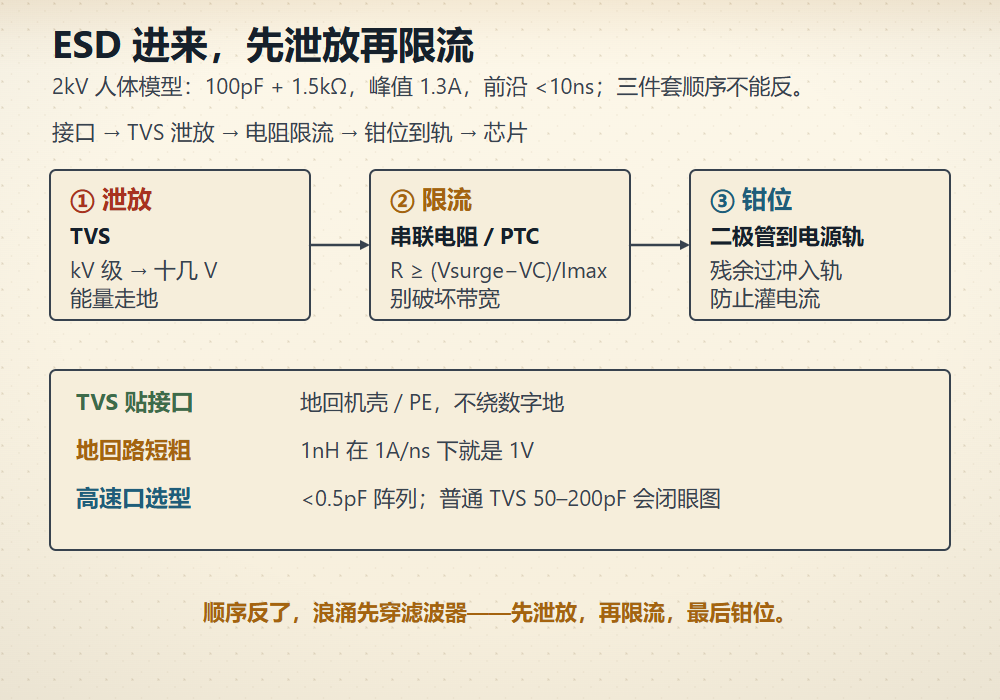
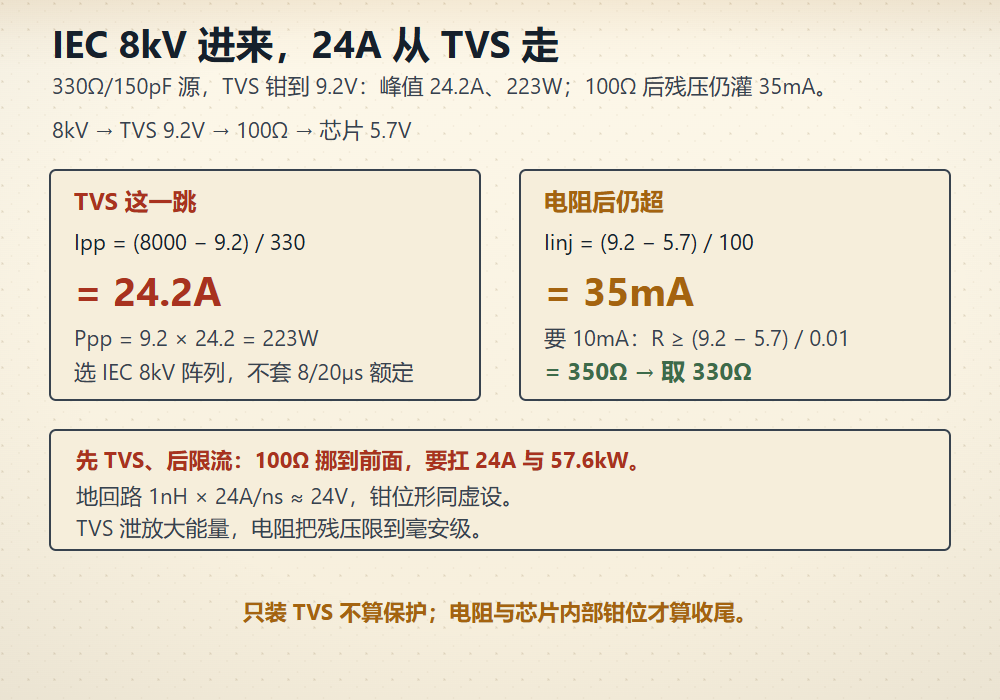
visual: retarget ESD figure and fix review feedback

diff --git a/docs/superpowers/visual/reviews/task8-2026-11-05/contact-wave10.html b/docs/superpowers/visual/reviews/task8-2026-11-05/contact-wave10.html
@@ -13,8 +13,8 @@ td,th{border:1px solid #e0d3b8;padding:2px 6px;text-align:center}
 .gray{filter:grayscale(1)}.page{break-after:page;margin-bottom:36px}
 .pending{padding:32px;border:1px dashed #5b666f}.proof{color:#a4441d;font-weight:bold}
 </style><h1>视觉接触表 · 全部新图（9 张）</h1><p class='lead'>逐项打 1–5 分；任一维度 &lt;4 返工。评分回填 visual-manifest.yml 的 review_scores。</p><section class='page'><div class='grid'><figure>
-<img src="../../../../../assets/figures-v2/ch02-esd-chain.svg" alt="接口保护三件套的顺序">
-<figcaption><b>ch02-esd-chain</b> · 接口保护三件套的顺序
+<img src="../../../../../assets/figures-v2/ch02-esd-chain.svg" alt="IEC 8kV 的 24A 分账">
+<figcaption><b>ch02-esd-chain</b> · IEC 8kV 的 24A 分账
 <div class="meta">ch2 · V4 · IG-013
  · generated</div>
 <table><tr><th>教学必要性</th><th>事实精度</th><th>构图层级</th><th>风格一致性</th><th>印刷可读性</th></tr><tr><td>待评</td><td>待评</td><td>待评</td><td>待评</td><td>待评</td></tr></table></figcaption>

diff --git a/scripts/visuals/scenes/handdrawn_wave10.py b/scripts/visuals/scenes/handdrawn_wave10.py
@@ -7,36 +7,28 @@ from scripts.visuals.scenes.handdrawn_wave2 import (
 
 
 def esd_chain():
-    parts = [header('ESD 进来，先泄放再限流',
-                    '2kV 人体模型：100pF + 1.5kΩ，峰值 1.3A，前沿 <10ns；三件套顺序不能反。')]
-    parts.append(text(52, 140, '接口 → TVS 泄放 → 电阻限流 → 钳位到轨 → 芯片', 22,
+    parts = [header('IEC 8kV 进来，24A 从 TVS 走',
+                    '330Ω/150pF 源，TVS 钳到 9.2V：峰值 24.2A、223W；100Ω 后残压仍灌 35mA。')]
+    parts.append(text(52, 138, '8kV → TVS 9.2V → 100Ω → 芯片 5.7V', 22, colour=INK2))
+    parts.append(box(50, 170, 430, 230, fill=PAPER))
+    parts.append(text(74, 210, 'TVS 这一跳', 24, colour=RED, weight='700'))
+    parts.append(text(74, 250, 'Ipp = (8000 − 9.2) / 330', 22))
+    parts.append(text(74, 306, '= 24.2A', 40, colour=RED, weight='700'))
+    parts.append(text(74, 346, 'Ppp = 9.2 × 24.2 = 223W', 22, colour=INK2))
+    parts.append(text(74, 380, '选 IEC 8kV 阵列，不套 8/20µs 额定', 22, colour=INK2))
+    parts.append(box(520, 170, 430, 230, fill=PAPER))
+    parts.append(text(544, 210, '电阻后仍超', 24, colour=AMBER, weight='700'))
+    parts.append(text(544, 250, 'Iinj = (9.2 − 5.7) / 100', 22))
+    parts.append(text(544, 306, '= 35mA', 40, colour=AMBER, weight='700'))
+    parts.append(text(544, 346, '要 10mA：R ≥ (9.2 − 5.7) / 0.01', 22, colour=INK2))
+    parts.append(text(544, 380, '= 350Ω → 取 330Ω', 24, colour=GREEN, weight='700'))
+    parts.append(box(50, 430, 900, 120, fill=PAPER))
+    parts.append(text(76, 468, '先 TVS、后限流：100Ω 挪到前面，要扛 24A 与 57.6kW。', 22,
+                      colour=RED, weight='700'))
+    parts.append(text(76, 504, '地回路 1nH × 24A/ns ≈ 24V，钳位形同虚设。', 22,
                       colour=INK2))
-    cards = [
-        (50, '① 泄放', 'TVS', 'kV 级 → 十几 V', '能量走地', RED),
-        (370, '② 限流', '串联电阻 / PTC', 'R ≥ (Vsurge−VC)/Imax', '别破坏带宽', AMBER),
-        (690, '③ 钳位', '二极管到电源轨', '残余过冲入轨', '防止灌电流', BLUE),
-    ]
-    for x, head, line1, line2, line3, colour in cards:
-        parts.append(box(x, 170, 260, 150, fill=PAPER))
-        parts.append(text(x + 20, 208, head, 25, colour=colour, weight='700'))
-        parts.append(text(x + 20, 244, line1, 22, weight='700'))
-        parts.append(text(x + 20, 278, line2, 22, colour=INK2))
-        parts.append(text(x + 20, 306, line3, 22, colour=INK2))
-    parts.append(f'<line x1="310" y1="245" x2="360" y2="245" stroke="{INK2}" stroke-width="2.5"/>')
-    parts.append(f'<polygon points="370,245 360,240 360,250" fill="{INK2}"/>')
-    parts.append(f'<line x1="630" y1="245" x2="680" y2="245" stroke="{INK2}" stroke-width="2.5"/>')
-    parts.append(f'<polygon points="690,245 680,240 680,250" fill="{INK2}"/>')
-    parts.append(box(50, 370, 900, 180, fill=PAPER))
-    rows = [
-        ('TVS 贴接口', '地回机壳 / PE，不绕数字地'),
-        ('地回路短粗', '1nH 在 1A/ns 下就是 1V'),
-        ('高速口选型', '<0.5pF 阵列；普通 TVS 50–200pF 会闭眼图'),
-    ]
-    for i, (head, note) in enumerate(rows):
-        y = 410 + i * 48
-        parts.append(text(76, y, head, 23, colour=[GREEN, AMBER, BLUE][i], weight='700'))
-        parts.append(text(300, y, note, 22, colour=INK2))
-    parts.append(text(500, 620, '顺序反了，浪涌先穿滤波器——先泄放，再限流，最后钳位。', 22,
+    parts.append(text(76, 536, 'TVS 泄放大能量，电阻把残压限到毫安级。', 22, colour=INK2))
+    parts.append(text(500, 620, '只装 TVS 不算保护；电阻与芯片内部钳位才算收尾。', 22,
                       colour=AMBER, anchor='middle', weight='700'))
     return parts
 
@@ -101,9 +93,9 @@ def junction_margin():
                           weight='700' if i == 3 else '400'))
     parts.append(text(594, 430, '降额、换低 VF 管、加散热片。', 22, colour=INK2))
     parts.append(box(50, 500, 900, 90, fill=PAPER))
-    parts.append(text(76, 538, 'SOA 四条边界：VRRM、IF、PD、Tjmax 要同时满足。', 22,
-                      weight='700'))
-    parts.append(text(76, 574, '8.3ms 单次浪涌不能当重复值；脉冲越窄，允许峰值越高。', 22,
+    parts.append(text(76, 538, '8.3ms 单次浪涌不能当重复值。', 22,
+                      colour=RED, weight='700'))
+    parts.append(text(76, 574, '峰值功率一定带脉宽与占空比；脉冲越窄，允许峰值越高。', 22,
                       colour=INK2))
     parts.append(text(500, 640, '结温是闭环，不是单点；余量没了就降额或换封装。', 22,
                       colour=AMBER, anchor='middle', weight='700'))
@@ -296,14 +288,14 @@ def early_effect():
     parts = [header('输出特性不是水平线，是微微上翘',
                     'VCE 升 → 集电结耗尽层变宽 → 有效基区变薄 → β 微升。')]
     parts.append(box(50, 140, 500, 380, fill=PAPER))
-    parts.append(f'<line x1="100" y1="460" x2="510" y2="460" stroke="{INK2}" stroke-width="2.5"/>')
+    parts.append(f'<line x1="60" y1="460" x2="510" y2="460" stroke="{INK2}" stroke-width="2.5"/>')
     parts.append(f'<line x1="100" y1="460" x2="100" y2="170" stroke="{INK2}" stroke-width="2.5"/>')
     parts.append(text(470, 490, 'VCE', 22, colour=INK2))
     parts.append(text(78, 182, 'IC', 22, colour=INK2))
     for i, (y0, colour) in enumerate([(380, BLUE), (310, GREEN), (240, AMBER)]):
         parts.append(f'<path d="M150,{y0} C280,{y0 - 4} 400,{y0 - 16} 500,{y0 - 28}" '
                      f'fill="none" stroke="{colour}" stroke-width="4"/>')
-        parts.append(f'<path d="M150,{y0} L60,430" fill="none" stroke="{colour}" '
+        parts.append(f'<path d="M150,{y0} L60,460" fill="none" stroke="{colour}" '
                      f'stroke-width="1.6" stroke-dasharray="5,5"/>')
     parts.append(text(56, 500, '虚线交于 −VA', 22, colour=INK2))
     parts.append(text(300, 205, '曲线间距 = β', 22, colour=INK2))
@@ -329,9 +321,9 @@ def early_effect():
 
 SCENES = {
     'ch02-esd-chain': {
-        'draw': esd_chain, 'title': '接口保护三件套的顺序', 'anchor': '2.8',
+        'draw': esd_chain, 'title': 'IEC 8kV 的 24A 分账', 'anchor': '2.11.3',
         'chapter': 2, 'source': 'docs/p1-03-ch2.md',
-        'alt': '手绘保护链：接口进来先到 TVS 泄放，再经串联电阻限流，最后用钳位二极管把残余过冲引到电源轨。上方写 2 千伏人体模型为 100 皮法加 1.5 千欧，峰值 1.3 安，前沿小于 10 纳秒。下方三条布局军规：TVS 贴接口、地回路短粗、高速口选小于 0.5 皮法阵列。',
+        'alt': '手绘 IEC 8 千伏 ESD 分账：330 欧、150 皮法源，TVS 钳到 9.2 伏，峰值电流 24.2 安、223 瓦；经 100 欧后残压仍向芯片灌 35 毫安。右侧写要压到 10 毫安需电阻至少 350 欧，取 330 欧。底部写先 TVS 后限流，100 欧挪到前面要扛 24 安与 57.6 千瓦；地回路 1 纳亨乘 24 安每纳秒约 24 伏，钳位形同虚设。',
     },
     'ch02-zener-budget': {
         'draw': zener_budget, 'title': '稳压管的限流电阻与最坏功耗', 'anchor': '2.9',
@@ -341,7 +333,7 @@ SCENES = {
     'ch02-junction-margin': {
         'draw': junction_margin, 'title': '结温余量只剩 3°C', 'anchor': '2.9',
         'chapter': 2, 'source': 'docs/p1-03-ch2.md',
-        'alt': '手绘结温账：1 安乘 0.9 伏乘 80 摄氏度每瓦，环境 50 摄氏度，结温 122 摄氏度；上限 125 摄氏度，只剩 3 摄氏度。右侧写环境再高 5 摄氏度或电流再大 10% 就超，降额到 0.6 安后结温约 93 摄氏度。底部写 SOA 四条边界与 8.3 毫秒单次浪涌不能当重复值。',
+        'alt': '手绘结温账：1 安乘 0.9 伏乘 80 摄氏度每瓦，环境 50 摄氏度，结温 122 摄氏度；上限 125 摄氏度，只剩 3 摄氏度。右侧写环境再高 5 摄氏度或电流再大 10% 就超，降额到 0.6 安后结温约 93 摄氏度。底部写 8.3 毫秒单次浪涌不能当重复值，峰值功率一定带脉宽与占空比。',
     },
     'ch02-parallel-hog': {
         'draw': parallel_hog, 'title': '并联二极管的热抢流', 'anchor': '2.9',

diff --git a/scripts/visuals/scenes/handdrawn_wave4.py b/scripts/visuals/scenes/handdrawn_wave4.py
@@ -149,7 +149,7 @@ SCENES = {
     'ch18-temp-spray': {
         'draw': temp_spray, 'title': '温度手段与安全边界', 'anchor': '18.1',
         'chapter': 18, 'source': 'docs/p4-03-ch18.md',
-        'alt': '手绘三步温度定位：手背感知只限低压或电池供电，冷却喷剂逐片降温看故障消失还是回来，锁定温敏件并记录边界；下方强调市电与高压电容附近只用喷剂和红外测温，绝不伸手。',
+        'alt': '手绘三步温度定位：手背感知只限低压或电池供电，冷却喷剂逐片降温看故障是否回来，锁定温敏件并记录边界；下方强调市电与高压电容附近只用喷剂和红外测温，绝不伸手。',
     },
     'ch16-instrument-trust': {
         'draw': instrument_trust, 'title': '仪器信任链', 'anchor': '16.3',

diff --git a/docs/superpowers/visual/reviews/task8-2026-11-05/WAVE10-GALLERY.md b/docs/superpowers/visual/reviews/task8-2026-11-05/WAVE10-GALLERY.md
@@ -5,10 +5,10 @@
 
 ## ch2（4 张）
 
-### 接口保护三件套的顺序
+### IEC 8kV 的 24A 分账
 `ch02-esd-chain` · V4 · `IG-013`
 
-<img src="../../../../../assets/figures-v2/ch02-esd-chain.webp" width="720" alt="手绘保护链：接口进来先到 TVS 泄放，再经串联电阻限流，最后用钳位二极管把残余过冲引到电源轨。上方写 2 千伏人体模型为 100 皮法加 1.5 千欧，峰值 1.3 安，前沿小于 10 纳秒。下方三条布局军规：TVS 贴接口、地回路短粗、高速口选小于 0.5 皮法阵列。">
+<img src="../../../../../assets/figures-v2/ch02-esd-chain.webp" width="720" alt="手绘 IEC 8 千伏 ESD 分账：330 欧、150 皮法源，TVS 钳到 9.2 伏，峰值电流 24.2 安、223 瓦；经 100 欧后残压仍向芯片灌 35 毫安。右侧写要压到 10 毫安需电阻至少 350 欧，取 330 欧。底部写先 TVS 后限流，100 欧挪到前面要扛 24 安与 57.6 千瓦；地回路 1 纳亨乘 24 安每纳秒约 24 伏，钳位形同虚设。">
 
 ### 稳压管的限流电阻与最坏功耗
 `ch02-zener-budget` · V4 · `IG-013`
@@ -18,7 +18,7 @@
 ### 结温余量只剩 3°C
 `ch02-junction-margin` · V4 · `IG-013`
 
-<img src="../../../../../assets/figures-v2/ch02-junction-margin.webp" width="720" alt="手绘结温账：1 安乘 0.9 伏乘 80 摄氏度每瓦，环境 50 摄氏度，结温 122 摄氏度；上限 125 摄氏度，只剩 3 摄氏度。右侧写环境再高 5 摄氏度或电流再大 10% 就超，降额到 0.6 安后结温约 93 摄氏度。底部写 SOA 四条边界与 8.3 毫秒单次浪涌不能当重复值。">
+<img src="../../../../../assets/figures-v2/ch02-junction-margin.webp" width="720" alt="手绘结温账：1 安乘 0.9 伏乘 80 摄氏度每瓦，环境 50 摄氏度，结温 122 摄氏度；上限 125 摄氏度，只剩 3 摄氏度。右侧写环境再高 5 摄氏度或电流再大 10% 就超，降额到 0.6 安后结温约 93 摄氏度。底部写 8.3 毫秒单次浪涌不能当重复值，峰值功率一定带脉宽与占空比。">
 
 ### 并联二极管的热抢流
 `ch02-parallel-hog` · V4 · `IG-013`

diff --git a/docs/superpowers/visual/prompts/ch02-esd-chain.md b/docs/superpowers/visual/prompts/ch02-esd-chain.md
@@ -10,11 +10,11 @@ color_ids:
 - C-29
 numbers: []
 source_facts:
-- docs/p1-03-ch2.md#2.8
+- docs/p1-03-ch2.md#2.11.3
 authorization: 2026-11-05 用户要求增加手绘插图
 composition: docs/superpowers/visual/reviews/task8-2026-11-05/ch02-esd-chain.json
-zh_prompt: 风格名称：手绘纸墨草图。主题：接口保护三件套的顺序。象牙纸、佩恩灰墨线、赭石标记；线条略带手绘弯曲，中文标签保持印刷可读，几何不编码虚假量值。
-en_prompt: 'Style name: hand-drawn paper-and-ink sketch. Subject: 接口保护三件套的顺序. Ivory paper, Payne grey
-  ink, ochre accents; slightly bowed hand-drawn lines with print-readable Chinese labels. Geometry never
-  encodes values.'
+zh_prompt: 风格名称：手绘纸墨草图。主题：IEC 8kV 的 24A 分账。象牙纸、佩恩灰墨线、赭石标记；线条略带手绘弯曲，中文标签保持印刷可读，几何不编码虚假量值。
+en_prompt: 'Style name: hand-drawn paper-and-ink sketch. Subject: IEC 8kV 的 24A 分账. Ivory paper, Payne
+  grey ink, ochre accents; slightly bowed hand-drawn lines with print-readable Chinese labels. Geometry
+  never encodes values.'
 ---

diff --git a/docs/superpowers/visual/reviews/task8-2026-11-05/WAVE10-REVIEW.md b/docs/superpowers/visual/reviews/task8-2026-11-05/WAVE10-REVIEW.md
@@ -21,13 +21,13 @@
 | `ch02-junction-margin` | 122°C 对 125°C，只剩 3°C；余量不是形容词 |
 | `ch03-low-high-side` | 同一只 NPN，参考点一换，3.3V GPIO 就从够得着变成够不着 |
 
-其余：ch2 ESD 三件套 → ch2 并联热抢流 → ch3 C/E 反接 → ch3 组态折算律 → ch3 厄利效应。
+其余：ch2 IEC 8kV 的 24A 分账 → ch2 并联热抢流 → ch3 C/E 反接 → ch3 组态折算律 → ch3 厄利效应。
 
 ## 清单
 
 | id | 章 | 标题 | 类型 | 布局 | anchor |
 |---|---|---|---|---|---|
-| `ch02-esd-chain` | 2 | 接口保护三件套的顺序 | V4 | IG-013 | 2.8 |
+| `ch02-esd-chain` | 2 | IEC 8kV 的 24A 分账 | V4 | IG-013 | 2.11.3 |
 | `ch02-zener-budget` | 2 | 稳压管的限流电阻与最坏功耗 | V4 | IG-013 | 2.9 |
 | `ch02-junction-margin` | 2 | 结温余量只剩 3°C | V4 | IG-013 | 2.9 |
 | `ch02-parallel-hog` | 2 | 并联二极管的热抢流 | V4 | IG-013 | 2.9 |

diff --git a/docs/superpowers/visual/reviews/task8-2026-11-05/WAVE2-GALLERY.md b/docs/superpowers/visual/reviews/task8-2026-11-05/WAVE2-GALLERY.md
@@ -236,4 +236,4 @@
 ### 温度手段与安全边界
 `ch18-temp-spray` · V4 · `IG-013`
 
-<img src="../../../../../assets/figures-v2/ch18-temp-spray.webp" width="640" alt="手绘三步温度定位：手背感知只限低压或电池供电，冷却喷剂逐片降温看故障消失还是回来，锁定温敏件并记录边界；下方强调市电与高压电容附近只用喷剂和红外测温，绝不伸手。">
+<img src="../../../../../assets/figures-v2/ch18-temp-spray.webp" width="640" alt="手绘三步温度定位：手背感知只限低压或电池供电，冷却喷剂逐片降温看故障是否回来，锁定温敏件并记录边界；下方强调市电与高压电容附近只用喷剂和红外测温，绝不伸手。">
